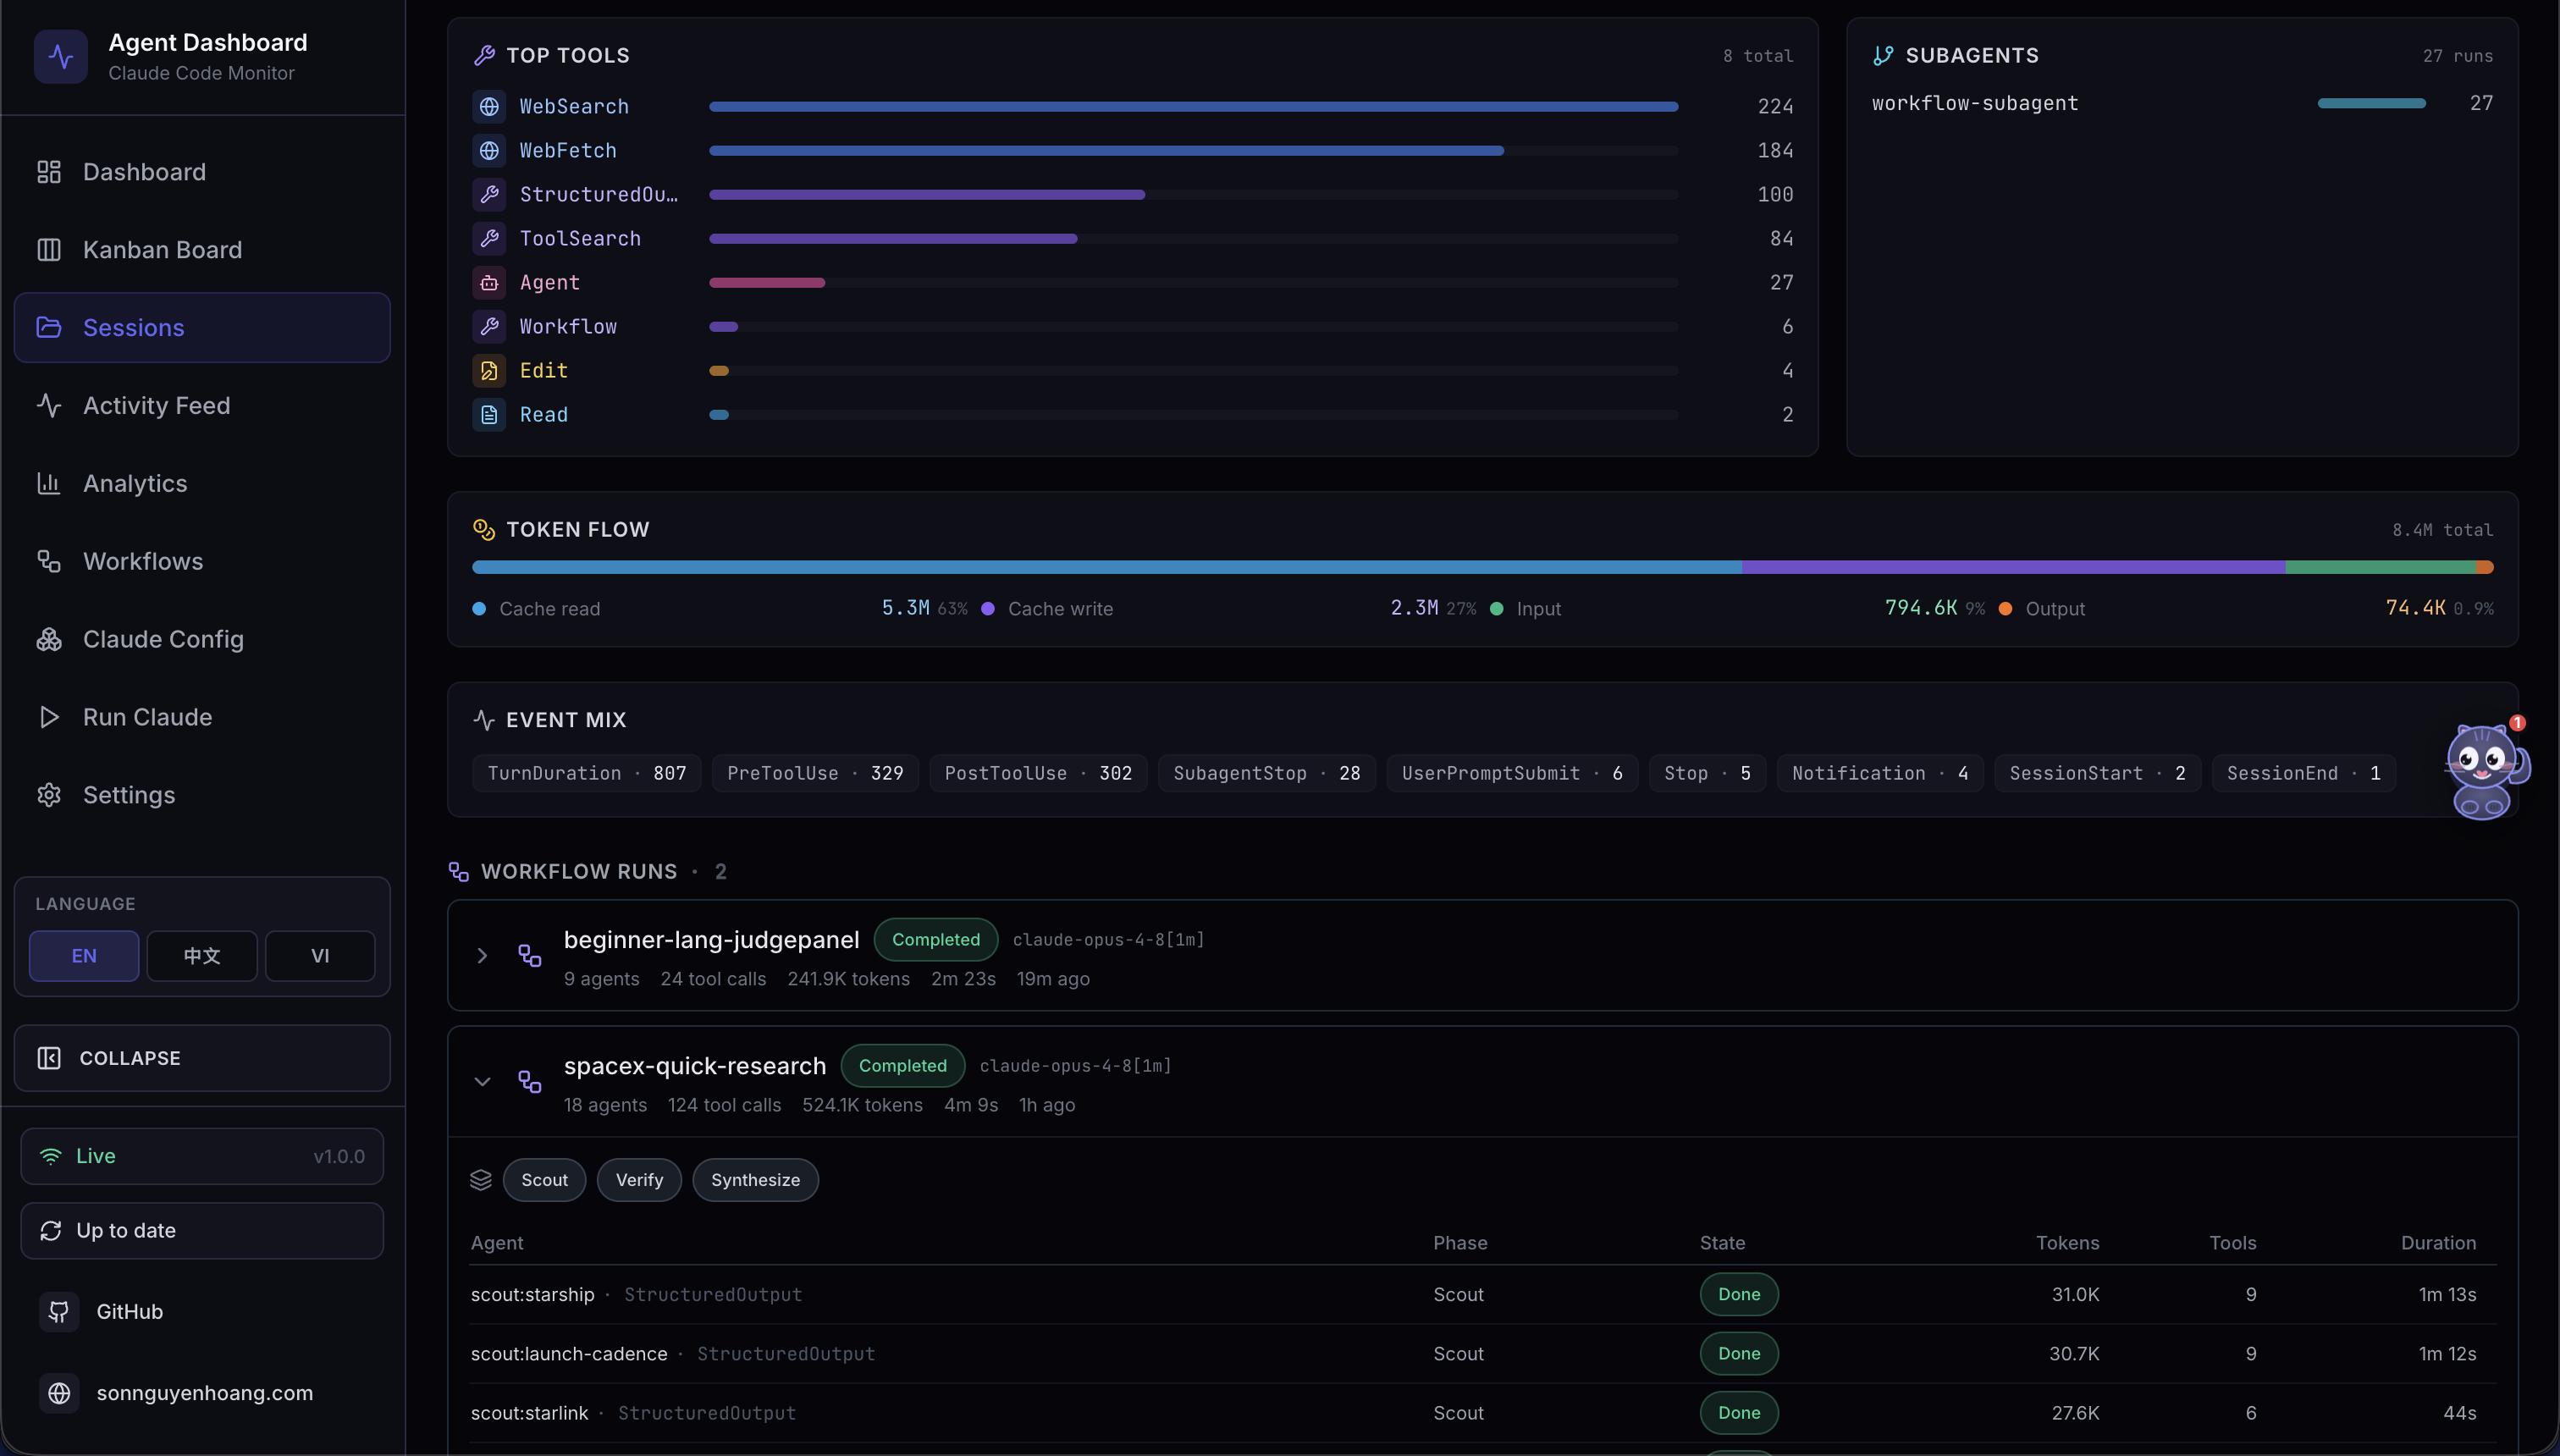
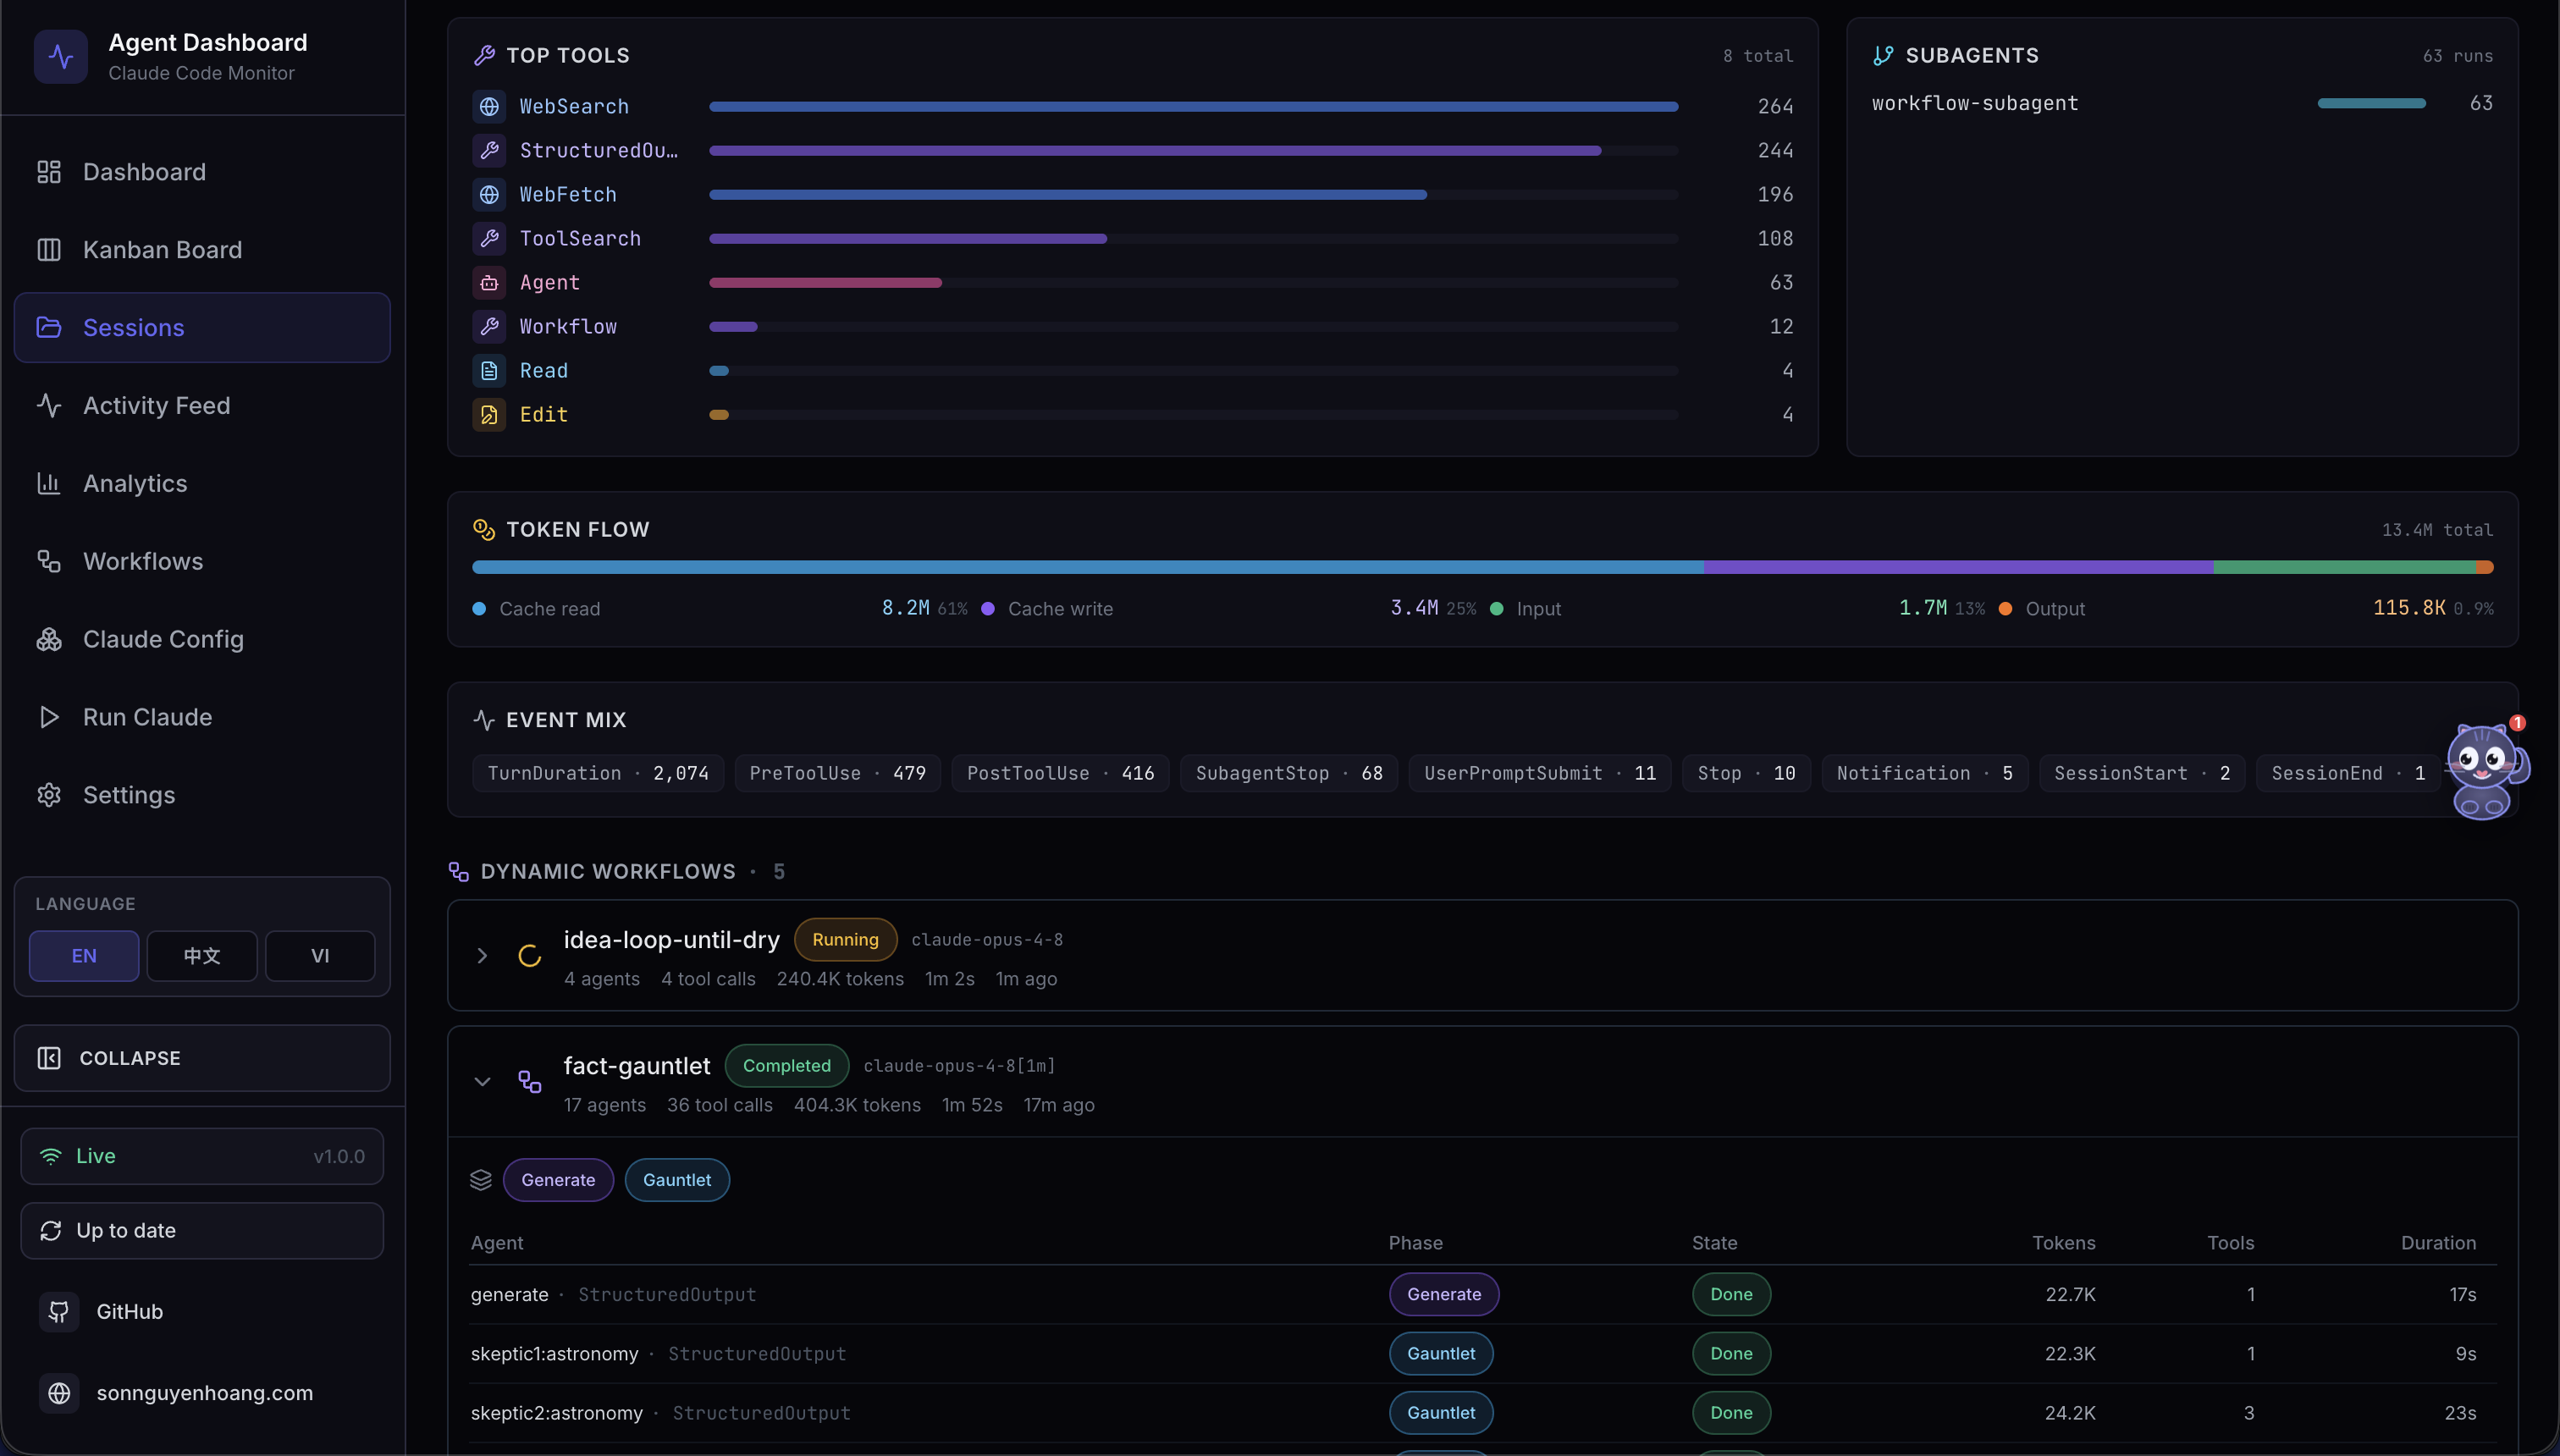
docs: add expanded dynamic-workflow screenshot (workflows2) across surfaces
Add images/dynamicworkflows-workflows2.png (a Workflow Run expanded — phase
filters, per-agent metrics, clickable results) alongside the existing
workflow-runs shots:
- README / README-VN / README-CN: captioned <img> after the Workflows-page shot.
- index.html (landing): a "Workflow Run expanded" showcase card.
- wiki/index.html: #ss-workflow-runs-expanded card with zh/vi caption in
  i18n-content.js; bump i18n-content.js?v=6 -> v=7 and CACHE_NAME wiki-v15 -> v16.

diff --git a/index.html b/index.html
@@ -3011,6 +3011,16 @@
               </div>
             </div>
           </div>
+          <div class="showcase-card" data-cat="tools" data-title="Workflow Run expanded">
+            <div class="showcase-img">
+              <img src="images/dynamicworkflows-workflows2.png" alt="Dynamic Workflow Run expanded with phase filters and per-agent results" loading="lazy" />
+              <span class="showcase-expand-icon">⤢</span>
+              <div class="showcase-overlay">
+                <h4>Workflow Run — expanded</h4>
+                <p>Color-coded phase filters, per-agent metrics, and clickable results that expand to full prompt + output</p>
+              </div>
+            </div>
+          </div>
           <div class="showcase-card" data-cat="tools" data-title="Workflow Runs in a session">
             <div class="showcase-img">
               <img src="images/dynamicworkflows-session.png" alt="Dynamic Workflow Runs on the session detail page" loading="lazy" />

diff --git a/wiki/index.html b/wiki/index.html
@@ -1405,6 +1405,10 @@
               <img src="../images/dynamicworkflows-workflows.png" alt="Dynamic Workflow Runs on the Workflows page" width="3024" height="1720" loading="lazy" decoding="async" />
               <div class="screenshot-caption"><span class="caption-icon">🧬</span> <span><strong>Workflow Runs</strong> — "dynamic workflows" spawned by the Workflow tool, reconstructed from on-disk run journals: status, agent count, tokens, and tool calls, expandable into a per-agent breakdown (phase, state, tokens, tools, duration) with humanized result previews</span></div>
             </div>
+            <div class="screenshot-card" id="ss-workflow-runs-expanded">
+              <img src="../images/dynamicworkflows-workflows2.png" alt="Dynamic Workflow Run expanded with phase filters and per-agent results" width="3024" height="1722" loading="lazy" decoding="async" />
+              <div class="screenshot-caption"><span class="caption-icon">🧬</span> <span><strong>Workflow Runs · expanded</strong> — a run opened up: clickable color-coded phase filters, the per-agent metrics table, and a full list of clickable result items that expand to each agent's complete prompt and result</span></div>
+            </div>
             <div class="screenshot-card" id="ss-workflow-runs-session">
               <img src="../images/dynamicworkflows-session.png" alt="Dynamic Workflow Runs on the session detail page" width="3024" height="1720" loading="lazy" decoding="async" />
               <div class="screenshot-caption"><span class="caption-icon">🧬</span> <span><strong>Workflow Runs · in a session</strong> — the same fleets linked to their launching session, so a session's dynamic-workflow sub-agents and their folded-in token cost are visible inline</span></div>
@@ -5929,7 +5933,7 @@ npm run install-hooks</code></pre>
     <!-- Body-content translations (zh/vi) — must load before script.js so the
          i18n engine sees window.__WIKI_CONTENT_I18N. Both are deferred, so they
          run in document order. -->
-    <script src="i18n-content.js?v=6" defer></script>
+    <script src="i18n-content.js?v=7" defer></script>
     <script src="script.js?v=26" defer></script>
     <script>
       (function () {

diff --git a/wiki/i18n-content.js b/wiki/i18n-content.js
@@ -1169,6 +1169,8 @@ window.__WIKI_CONTENT_I18N = {
       '<span class="caption-icon">🧬</span> <span><strong>工作流运行</strong> — 由 Workflow 工具派生的「动态工作流」，依据磁盘上的运行日志重建：状态、Agent 数量、token 与工具调用，可展开为按 Agent 的明细（阶段、状态、token、工具、时长），并附经过人性化处理的结果预览</span>',
     '<span class="caption-icon">🧬</span> <span><strong>Workflow Runs · in a session</strong> — the same fleets linked to their launching session, so a session\'s dynamic-workflow sub-agents and their folded-in token cost are visible inline</span>':
       '<span class="caption-icon">🧬</span> <span><strong>工作流运行 · 会话内</strong> — 同样的群组关联到其启动会话，因此会话的动态工作流子 Agent 及其已计入的 token 成本可在会话内直接查看</span>',
+    '<span class="caption-icon">🧬</span> <span><strong>Workflow Runs · expanded</strong> — a run opened up: clickable color-coded phase filters, the per-agent metrics table, and a full list of clickable result items that expand to each agent\'s complete prompt and result</span>':
+      '<span class="caption-icon">🧬</span> <span><strong>工作流运行 · 展开</strong> — 展开的一次运行：可点击的彩色阶段筛选、按 Agent 的指标表，以及完整的可点击结果项列表，点击即可展开每个 Agent 的完整提示词与结果</span>',
   },
   vi: {
     '<span class="caption-icon">📡</span> Live dashboard — real-time agent cards, stats, and activity feed':
@@ -2368,6 +2370,8 @@ window.__WIKI_CONTENT_I18N = {
       '<span class="caption-icon">🧬</span> <span><strong>Lần chạy quy trình</strong> — các "quy trình động" do công cụ Workflow tạo ra, được dựng lại từ nhật ký chạy trên đĩa: trạng thái, số agent, token và lệnh gọi công cụ, mở rộng thành bảng phân tích theo từng agent (giai đoạn, trạng thái, token, công cụ, thời lượng) kèm bản xem trước kết quả đã được làm gọn</span>',
     '<span class="caption-icon">🧬</span> <span><strong>Workflow Runs · in a session</strong> — the same fleets linked to their launching session, so a session\'s dynamic-workflow sub-agents and their folded-in token cost are visible inline</span>':
       '<span class="caption-icon">🧬</span> <span><strong>Lần chạy quy trình · trong phiên</strong> — cùng các nhóm đó được liên kết tới phiên khởi chạy, nên các sub-agent của quy trình động và chi phí token đã được gộp vào của phiên đều hiển thị ngay trong phiên</span>',
+    '<span class="caption-icon">🧬</span> <span><strong>Workflow Runs · expanded</strong> — a run opened up: clickable color-coded phase filters, the per-agent metrics table, and a full list of clickable result items that expand to each agent\'s complete prompt and result</span>':
+      '<span class="caption-icon">🧬</span> <span><strong>Lần chạy quy trình · mở rộng</strong> — một lần chạy được mở ra: bộ lọc giai đoạn có màu và bấm được, bảng số liệu theo từng agent, và danh sách đầy đủ các mục kết quả bấm được để mở ra lời nhắc và kết quả đầy đủ của từng agent</span>',
   },
   plain: {
     zh: {

diff --git a/wiki/sw.js b/wiki/sw.js
@@ -3,7 +3,7 @@
  * @author Son Nguyen <[email redacted]>
  */
 
-const CACHE_NAME = "wiki-v15";
+const CACHE_NAME = "wiki-v16";
 const PRECACHE = [
   "./",
   "./index.html",

diff --git a/README-CN.md b/README-CN.md
@@ -226,6 +226,12 @@ flowchart LR
 </p>
 
 <p align="center">
+  <img src="images/dynamicworkflows-workflows2.png" alt="展开的动态工作流运行，含阶段筛选与按 Agent 的结果" width="100%">
+  <br>
+  <em>🧬 <strong>工作流运行 · 展开</strong> — 展开的一次运行：可点击的彩色阶段筛选、按 Agent 的指标表，以及完整的可点击结果项列表，点击即可展开每个 Agent 的完整提示词与结果</em>
+</p>
+
+<p align="center">
   <img src="images/dynamicworkflows-session.png" alt="会话详情页面上的动态工作流运行" width="100%">
   <br>
   <em>🧬 <strong>工作流运行（会话详情）</strong> — 同样的群组关联到其启动会话，因此会话的动态工作流子 Agent 及其已计入的 token 成本可在会话内直接查看</em>

diff --git a/README-VN.md b/README-VN.md
@@ -224,6 +224,12 @@ flowchart LR
 </p>
 
 <p align="center">
+  <img src="images/dynamicworkflows-workflows2.png" alt="Lần chạy quy trình động được mở rộng với bộ lọc giai đoạn và kết quả theo từng agent" width="100%">
+  <br>
+  <em>🧬 <strong>Lần chạy quy trình · mở rộng</strong> — một lần chạy được mở ra: bộ lọc giai đoạn có màu và bấm được, bảng số liệu theo từng agent, và danh sách đầy đủ các mục kết quả bấm được để mở ra lời nhắc và kết quả đầy đủ của từng agent</em>
+</p>
+
+<p align="center">
   <img src="images/dynamicworkflows-session.png" alt="Lần chạy quy trình động trên trang chi tiết phiên" width="100%">
   <br>
   <em>🧬 <strong>Lần chạy quy trình (chi tiết phiên)</strong> — cùng các nhóm đó được liên kết tới phiên khởi chạy, nên các sub-agent của quy trình động và chi phí token đã được gộp vào đều hiển thị ngay trong phiên</em>

diff --git a/README.md b/README.md
@@ -223,6 +223,12 @@ Comes with a sleek dark theme, responsive design, and intuitive navigation to ex
 </p>
 
 <p align="center">
+  <img src="images/dynamicworkflows-workflows2.png" alt="Dynamic Workflow Run expanded with phase filters and per-agent results" width="100%">
+  <br>
+  <em>🧬 <strong>Workflow Runs · expanded</strong> — a run opened up: clickable color-coded phase filters, the per-agent metrics table, and a full list of clickable result items that expand to each agent's complete prompt and result</em>
+</p>
+
+<p align="center">
   <img src="images/dynamicworkflows-session.png" alt="Dynamic Workflow Runs on the session detail page" width="100%">
   <br>
   <em>🧬 <strong>Workflow Runs (Session detail)</strong> — the same fleets linked to their launching session, so a session's dynamic-workflow sub-agents and their folded-in token cost are visible inline</em>